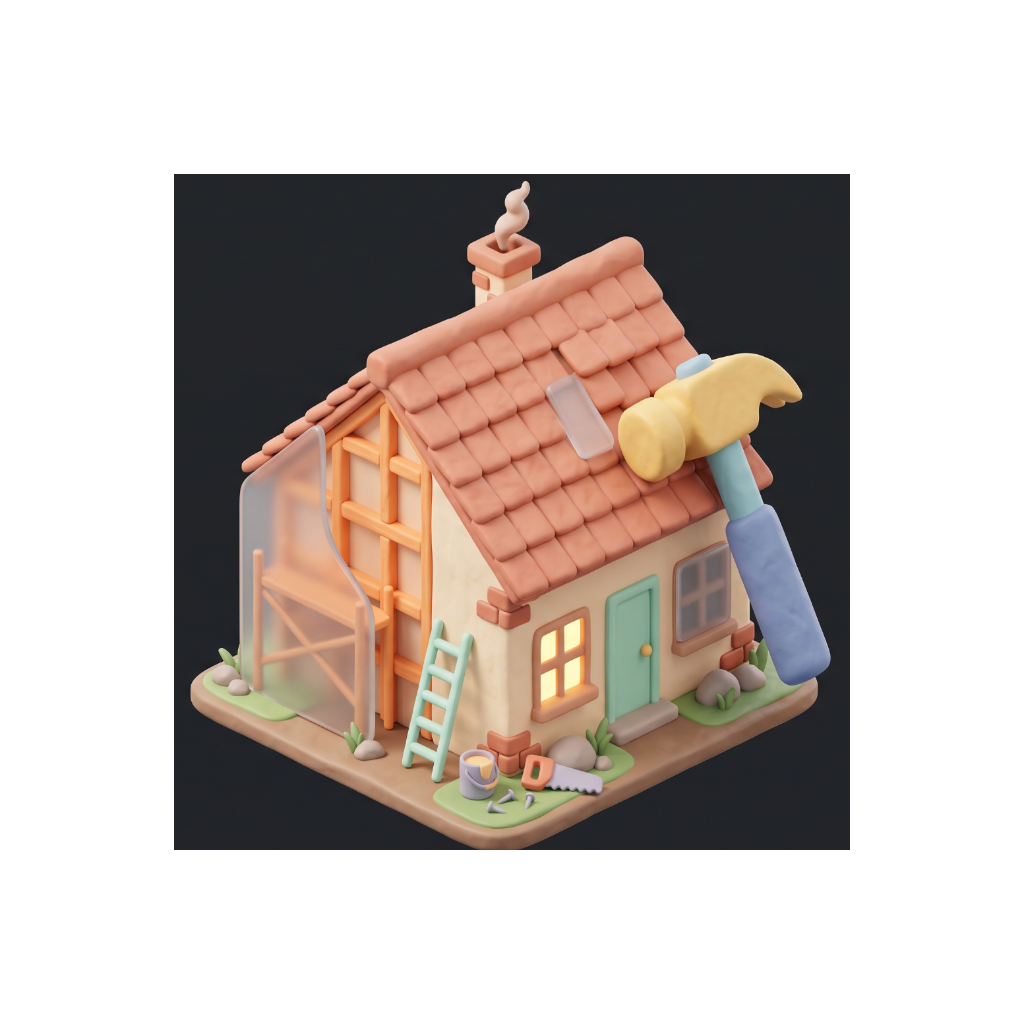
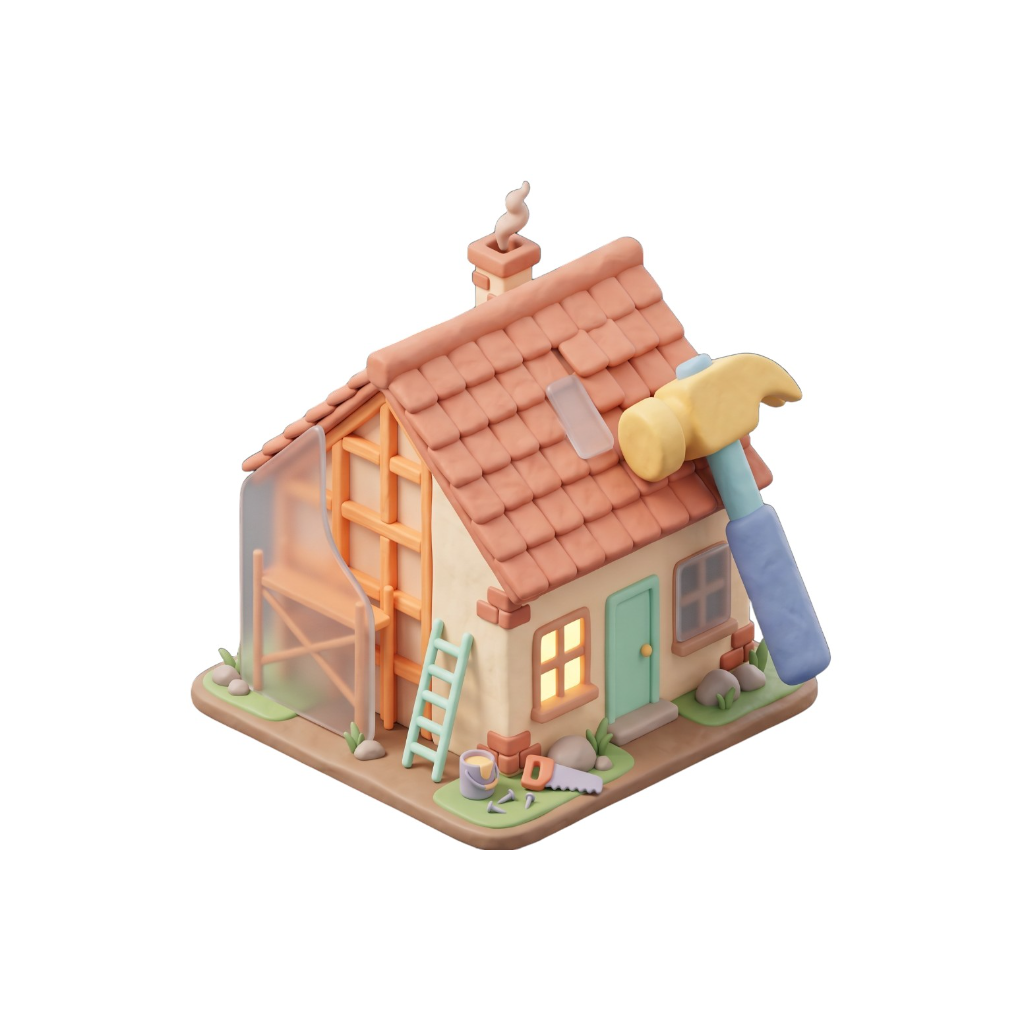
ivon and splash screen change

Changed region(s): [[0.1562, 0.1562, 0.8438, 0.8438], [0.7188, 0.5938, 0.75, 0.625]]

diff --git a/lib/main.dart b/lib/main.dart
@@ -1,3 +1,4 @@
+import 'dart:ui';
 import 'package:flutter/material.dart';
 import 'package:google_fonts/google_fonts.dart';
 import 'package:provider/provider.dart';
@@ -56,39 +57,133 @@ class _AppStartupState extends State<_AppStartup> {
 
   Future<void> _init() async {
     await context.read<ProjectProvider>().loadProjectsFromDb();
+
+    // Optional: Add a tiny artificial delay here just so the user
+    // can admire the splash screen for half a second before it jumps.
+    await Future.delayed(const Duration(milliseconds: 800));
+
     if (mounted) setState(() => _ready = true);
   }
 
   @override
   Widget build(BuildContext context) {
     if (!_ready) {
-      return const Scaffold(
-        backgroundColor: Color(0xFF1B5E3B),
-        body: Center(
-          child: Column(
-            mainAxisAlignment: MainAxisAlignment.center,
-            children: [
-              Icon(Icons.home_work_outlined, color: Colors.white, size: 64),
-              SizedBox(height: 16),
-              Text(
-                'Home Rebuild',
-                style: TextStyle(
-                  color: Colors.white,
-                  fontSize: 28,
-                  fontWeight: FontWeight.w700,
-                  letterSpacing: 0.5,
+      return Scaffold(
+        backgroundColor: Colors.transparent,
+        body: Stack(
+          fit: StackFit.expand,
+          children: [
+            // ─── 1. The Zen Background ───
+            RepaintBoundary(
+              child: Stack(
+                fit: StackFit.expand,
+                children: [
+                  Image.asset(
+                    'assets/images/b.jpg',
+                    fit: BoxFit.cover,
+                  ),
+                  Container(
+                    decoration: BoxDecoration(
+                      gradient: LinearGradient(
+                        begin: Alignment.topCenter,
+                        end: Alignment.bottomCenter,
+                        colors: [
+                          Colors.black.withValues(alpha: 0.3),
+                          Colors.black.withValues(alpha: 0.6), // Slightly darker at bottom
+                        ],
+                      ),
+                    ),
+                  ),
+                ],
+              ),
+            ),
+
+            // ─── 2. The Glassmorphism Splash Card ───
+            Center(
+              child: Container(
+                width: 260,
+                decoration: BoxDecoration(
+                  borderRadius: BorderRadius.circular(40),
+                  boxShadow: [
+                    BoxShadow(
+                      color: Colors.black.withValues(alpha: 0.15),
+                      blurRadius: 30,
+                      spreadRadius: 0,
+                      offset: const Offset(0, 10),
+                    ),
+                  ],
+                ),
+                child: ClipRRect(
+                  borderRadius: BorderRadius.circular(40),
+                  child: Stack(
+                    children: [
+                      // The Blur Layer
+                      Positioned.fill(
+                        child: BackdropFilter(
+                          filter: ImageFilter.blur(sigmaX: 20.0, sigmaY: 20.0),
+                          child: Container(color: Colors.transparent),
+                        ),
+                      ),
+                      // The Content Layer
+                      Container(
+                        padding: const EdgeInsets.symmetric(vertical: 48, horizontal: 24),
+                        decoration: BoxDecoration(
+                          color: Colors.white.withValues(alpha: 0.15),
+                          borderRadius: BorderRadius.circular(40),
+                          border: Border.all(
+                            color: Colors.white.withValues(alpha: 0.4),
+                            width: 1.0,
+                          ),
+                        ),
+                        child: const Column(
+                          mainAxisSize: MainAxisSize.min,
+                          mainAxisAlignment: MainAxisAlignment.center,
+                          children: [
+                            // You can replace this icon with your 3D Generated App Icon later
+                            Icon(Icons.home_work_outlined, color: Colors.white, size: 56),
+                            SizedBox(height: 24),
+                            Text(
+                              'Home Rebuild',
+                              textAlign: TextAlign.center,
+                              style: TextStyle(
+                                color: Colors.white,
+                                fontSize: 24,
+                                fontWeight: FontWeight.w300,
+                                letterSpacing: -0.5,
+                              ),
+                            ),
+                            SizedBox(height: 8),
+                            Text(
+                              'Cost Estimator',
+                              style: TextStyle(
+                                color: Colors.white70,
+                                fontSize: 13,
+                                fontWeight: FontWeight.w400,
+                                letterSpacing: 1.5,
+                              ),
+                            ),
+                            SizedBox(height: 40),
+                            SizedBox(
+                              height: 24,
+                              width: 24,
+                              child: CircularProgressIndicator(
+                                color: Colors.white,
+                                strokeWidth: 2,
+                              ),
+                            ),
+                          ],
+                        ),
+                      ),
+                    ],
+                  ),
                 ),
               ),
-              SizedBox(height: 32),
-              CircularProgressIndicator(
-                color: Colors.white,
-                strokeWidth: 2,
-              ),
-            ],
-          ),
+            ),
+          ],
         ),
       );
     }
+
     return const DashboardScreen();
   }
 }
